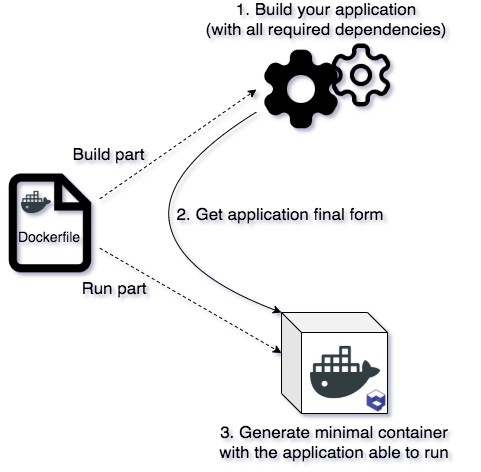
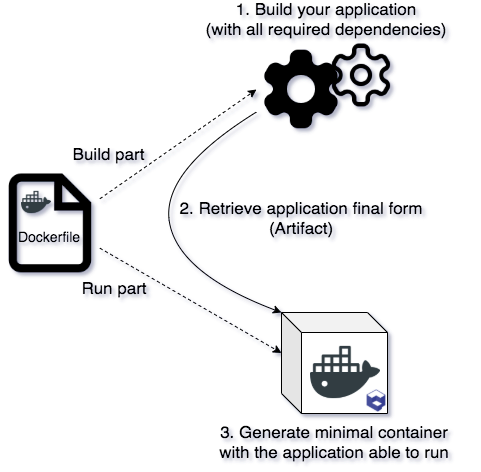
GitBook: [master] one page and one asset modified

Changed region(s): [[0.3742, 0.4153, 0.8732, 0.5042]]

diff --git a/quickstart/build.md b/quickstart/build.md
@@ -63,7 +63,7 @@ CMD exec java $JAVA_OPTS -jar /app.jar
 {% endtab %}
 {% endtabs %}
 
-1. **Build**: The first part \(from the first line to 15\) represent the dependencies and requirements in order to **build the application**. The result of this compilation is called an **artifact** available in the `/app/build/libs/app.jar` directory.
+1. **Build**: The first part \(from the first line to 15\) represent the dependencies and requirements in order to **build the application**. The application final form is called an **artifact** available in the `/app/build/libs/app.jar` directory.
 2. **Run**: The second part \(from line 18 to last\) represent the content of the container that will **run in production** \([or for a specific branch](../extending-qovery/branches.md)\). It retrieves the artifact from the build part and store it in the container.
 
 {% hint style="danger" %}
